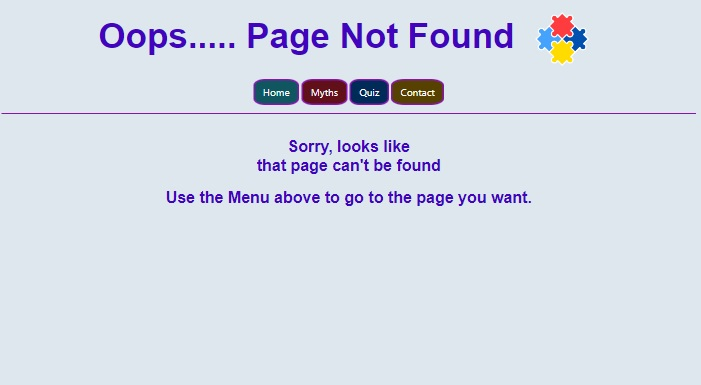
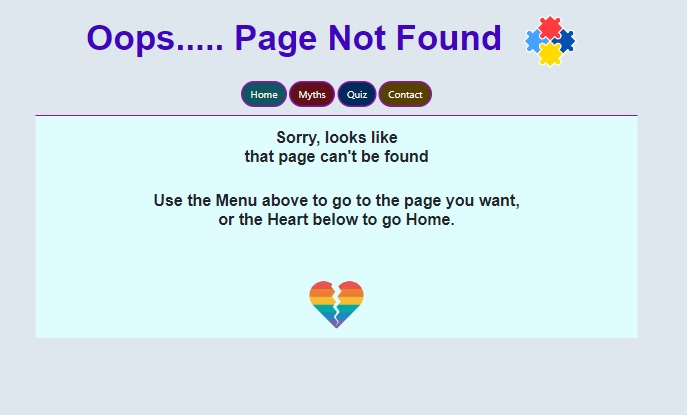
Feat: add help cursor pointer to myth card front

diff --git a/404.html b/404.html
@@ -55,10 +55,11 @@
                     <h2 class="font-weight-bold">that page can't be found</h2>
                     <br>
                     <br>
-                    <h2 class="font-weight-bold">Use the Menu above to go to the page you want.</h2>
-                    <br>
-                    <br>
-                    <h2 class="solid-border"></h2>
+                    <h2 class="font-weight-bold">Use the Menu above to go to the page you want,</h2>
+                    <h2 class="font-weight-bold">or the Heart below to go Home.</h2>
+                    <p class="mt-5 pt-5"><a href="index.html"><img class="logo-img" src="assets/images/broken_rainbow.png"
+                        alt="boken heart Logo"
+                    aria-label="Multicoloured heart broken in two."></a></p>
                 </div>
             </div>     
         </div>

diff --git a/assets/css/style.css b/assets/css/style.css
@@ -208,6 +208,7 @@ li {
     background-repeat: no-repeat;    
     color: #f0f0f0;
     border: 10px solid #2980b9;
+    cursor: help;
   }
   
   .myth-card-back {
@@ -524,10 +525,7 @@ a {
     font-weight: 500;
 }
 
-/* ----------------------------------------override default black color to match all menu buttons */
-.btn-warning {
-    color: #fff;
-}
+/* ----------------------------------------add arrow icon to drop down buttons */
 
 .btn-icon:before {
     font-family: 'FontAwesome';  

diff --git a/README.md b/README.md
@@ -291,7 +291,8 @@ This is my website
     * The top 10 myths or incorrect beliefs about Autism and those with the condition.
     * Each myth flips when clicked to give a larger narrative to dispel the myth.
     * The image on the front of the myth 'card' is populated from an array via JS. The reverse information is more static rather than dynamic data so it is more appropriate to code it within the HTML. 
-    Images are hidden below 320px as it makes the text hard to read and the image would be too small to add value.
+    * Images are hidden below 320px as it makes the text hard to read and the image would be too small to add value.
+    * The cursor incorporates a question mark when hovering over the front of the 'myth' Card.
     <br>  
     <details><summary>Myth Page</summary>
     <img src="docs/readme_images/myth_page.jpg">
